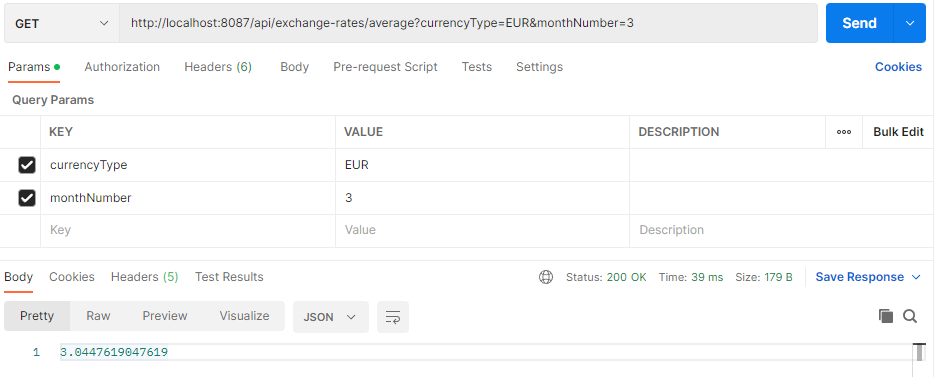
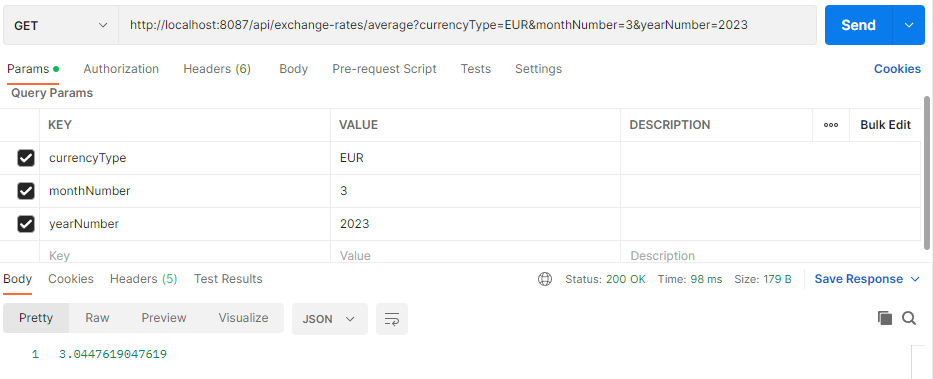
added year choice for avergate rate

diff --git a/service/src/main/java/by/fin/processing/exception/ExceptionResponseMessage.java b/service/src/main/java/by/fin/processing/exception/ExceptionResponseMessage.java
@@ -8,7 +8,7 @@ public final class ExceptionResponseMessage {
     public static final String DATES_MIX_UP = "Дата начала не может быть позже даты конца интервала";
     public static final String SERVER_NOT_RESPONDED = "Невозможно получить данные курсов валют с сервера";
     public static final String INVALID_CURRENCY_TYPE = "Проверьте правильность введённой валюты";
-    public static final String RATES_NOT_FOUND_IN_MONTH = "В заданный месяц курсов валют не найдено";
+    public static final String RATES_NOT_FOUND_IN_MONTH = "В заданный месяц и год курсов валют не найдено";
 
     private ExceptionResponseMessage() {
 

diff --git a/service/src/main/java/by/fin/processing/service/impl/RateServiceImpl.java b/service/src/main/java/by/fin/processing/service/impl/RateServiceImpl.java
@@ -89,8 +89,9 @@ public class RateServiceImpl implements RateService {
     }
 
     @Override
-    public BigDecimal findAverageInMonth(String currencyType, int monthNumber) {
-        Optional<BigDecimal> resultAverage = repository.findByCurrencyTypeAndMonthNumber(currencyType, monthNumber);
+    public BigDecimal findAverageInMonth(String currencyType, int monthNumber, int yearNumber) {
+        Optional<BigDecimal> resultAverage = repository.findByCurrencyTypeAndMonthYearNumber(currencyType,
+                monthNumber, yearNumber);
         if (resultAverage.isEmpty()) {
             throw new BadRequestException(RATES_NOT_FOUND_IN_MONTH, RateDto.class);
         }

diff --git a/module/src/main/java/by/fin/module/repository/RateRepository.java b/module/src/main/java/by/fin/module/repository/RateRepository.java
@@ -18,6 +18,7 @@ public interface RateRepository extends JpaRepository<Rate, Long> {
     List<Rate> findByCurrencyType(String currencyType);
 
     @Query("select avg(r.value) from Rate r where extract(month from r.weekend.calendarDate) = :monthNumber " +
+            "and extract(year from r.weekend.calendarDate) = :yearNumber " +
             "and r.currencyType = :currency and r.weekend.dayOff = false")
-    Optional<BigDecimal> findByCurrencyTypeAndMonthNumber(String currency, int monthNumber);
+    Optional<BigDecimal> findByCurrencyTypeAndMonthYearNumber(String currency, int monthNumber, int yearNumber);
 }

diff --git a/web/src/main/java/by/fin/web/controller/impl/RateControllerImpl.java b/web/src/main/java/by/fin/web/controller/impl/RateControllerImpl.java
@@ -47,9 +47,9 @@ public class RateControllerImpl implements RateController {
     }
 
     @Override
-    public BigDecimal findAverageInMonth(String currencyType, int monthNumber) {
+    public BigDecimal findAverageInMonth(String currencyType, int monthNumber, int yearNumber) {
         checkCurrencyType(currencyType);
-        return service.findAverageInMonth(currencyType, monthNumber);
+        return service.findAverageInMonth(currencyType, monthNumber, yearNumber);
     }
 
     private void checkCurrencyType(String currencyType) {

diff --git a/web/src/main/java/by/fin/web/controller/RateController.java b/web/src/main/java/by/fin/web/controller/RateController.java
@@ -35,5 +35,6 @@ public interface RateController {
     @GetMapping("/average")
     @ResponseStatus(OK)
     BigDecimal findAverageInMonth(@RequestParam String currencyType,
-                                  @RequestParam @Min(1) @Max(12) int monthNumber);
+                                  @RequestParam @Min(1) @Max(12) int monthNumber,
+                                  @RequestParam @Min(2022) @Max(2023) int yearNumber);
 }

diff --git a/service/src/main/java/by/fin/processing/service/RateService.java b/service/src/main/java/by/fin/processing/service/RateService.java
@@ -16,5 +16,5 @@ public interface RateService {
 
     List<RateDto> findByCurrency(String currencyType);
 
-    BigDecimal findAverageInMonth(String currencyType, int monthNumber);
+    BigDecimal findAverageInMonth(String currencyType, int monthNumber, int yearNumber);
 }

diff --git a/README.md b/README.md
@@ -66,8 +66,10 @@ Response сервера в случае некорректного ввода п
 ![img_2.png](readmepictures/img_2.png)
 Проверка типа валюты происходит аналогичным образом, показанным выше
 
-#### 3. Получение среднего значения курса валют из БД по заданому типу валюты и месяцу
+#### 3. Получение среднего значения курса валют из БД по заданому типу валюты, месяцу и году
 ![img.png](readmepictures/img_7.png)
-Response сервера в случае отсутствия данных в указанный месяц:
+Response сервера в случае некорректного ввода данных:
 ![img.png](readmepictures/img_8.png)
+Response сервера в случае отсутствия данных в указанный месяц и год:
+![img.png](readmepictures/img_9.png)
 Проверка типа валюты происходит аналогичным образом, показанным выше
